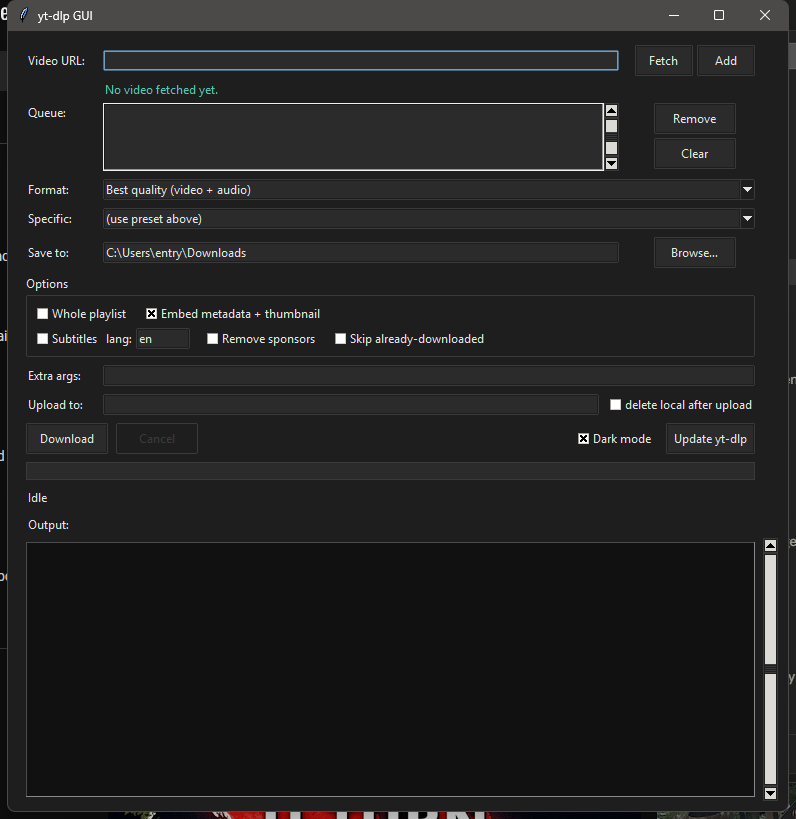
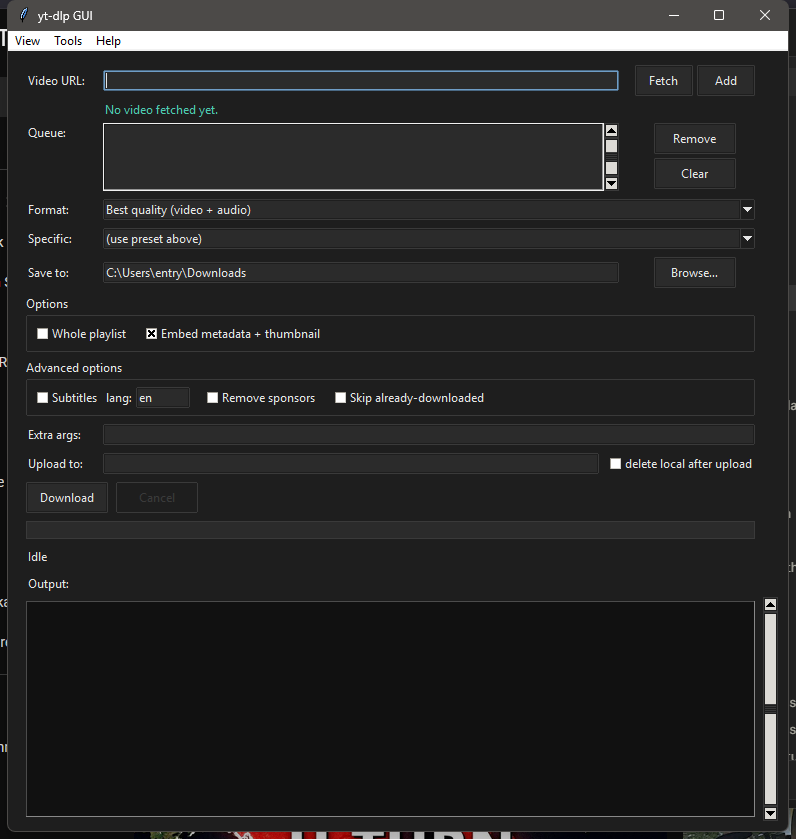
Add menu bar (View/Tools/Help) and Simple/Advanced view toggle
Moves Update yt-dlp and Dark mode into a native menu bar, adds in-app Help (how-to, extra-args examples, About) and Tools (open download/settings folders), and a Simple/Advanced toggle that hides the power-user rows. Defaults to Simple. View choice is remembered. Screenshots updated.

diff --git a/ytdlp_gui.py b/ytdlp_gui.py
@@ -79,6 +79,48 @@ THEMES = {
     },
 }
 
+APP_VERSION = "1.0"
+GITHUB_URL = "https://github.com/swissmayfield/ytdlp-gui"
+
+HELP_HOWTO = """\
+1. Paste a video URL at the top.
+2. (Optional) Click Fetch to load the title and the formats available for that
+   video, then pick one under "Specific" (Advanced view).
+3. Click Add to queue it, or just click Download to grab the single URL.
+4. Choose a Format and a Save-to folder, then click Download.
+
+Use the View menu to switch between Simple and Advanced, or toggle Dark mode.
+If a site stops working, try Tools > Update yt-dlp.
+
+Note: this does not bypass DRM. Use it only for content you're allowed
+to download - your own uploads, Creative Commons / public-domain video,
+or sites whose terms permit it.
+"""
+
+HELP_EXTRA = """\
+Anything in the "Extra args" box (Advanced view) is passed straight to yt-dlp:
+
+  --limit-rate 2M                     cap the download speed
+  --download-sections "*10:00-10:30"  download just that clip
+  --cookies-from-browser chrome       use your logged-in browser session
+  -N 4                                download fragments in parallel (faster)
+
+To upload finished files to a remote, set one up once with `rclone config`,
+then put e.g. "gdrive:Movies" in the Upload to box (Advanced view).
+"""
+
+HELP_ABOUT = f"""\
+yt-dlp GUI   v{APP_VERSION}
+
+A small, dependency-free desktop front-end for yt-dlp, built with Python's
+standard-library tkinter.
+
+{GITHUB_URL}
+
+yt-dlp does not bypass DRM; use this only for content you're allowed
+to download.
+"""
+
 
 class YtDlpGui:
     def __init__(self, root):
@@ -119,6 +161,7 @@ class YtDlpGui:
         self.rclone_var       = tk.StringVar(value=cfg.get("rclone_remote", ""))
         self.rclone_move_var  = tk.BooleanVar(value=cfg.get("rclone_move", False))
         self.dark_var         = tk.BooleanVar(value=cfg.get("dark", False))
+        self.view_var         = tk.StringVar(value=cfg.get("view", "simple"))
         self.status_var       = tk.StringVar(value="Idle")
 
         if self.format_var.get() not in FORMAT_PRESETS:
@@ -126,6 +169,7 @@ class YtDlpGui:
 
         self._build_widgets()
         self._apply_theme()
+        self._apply_view()
         self.root.protocol("WM_DELETE_WINDOW", self._on_close)
         self.root.after(100, self._drain_queue)
 
@@ -133,9 +177,11 @@ class YtDlpGui:
     def _build_widgets(self):
         pad = {"padx": 8, "pady": 4}
         self.style = ttk.Style(self.root)
+        self._build_menu()
         frm = ttk.Frame(self.root, padding=10)
         frm.pack(fill="both", expand=True)
         frm.columnconfigure(1, weight=1)
+        self.advanced_widgets = []   # rows hidden in Simple view
         r = 0
 
         # URL row + Fetch / Add buttons
@@ -181,11 +227,13 @@ class YtDlpGui:
                      state="readonly").grid(row=r, column=1, columnspan=2, sticky="ew", **pad)
         r += 1
 
-        # Specific format (populated after Fetch)
-        ttk.Label(frm, text="Specific:").grid(row=r, column=0, sticky="w", **pad)
+        # Specific format (populated after Fetch) -- advanced only
+        spec_lbl = ttk.Label(frm, text="Specific:")
+        spec_lbl.grid(row=r, column=0, sticky="w", **pad)
         self.specific_combo = ttk.Combobox(frm, textvariable=self.specific_var,
                                             values=[USE_PRESET], state="readonly")
         self.specific_combo.grid(row=r, column=1, columnspan=2, sticky="ew", **pad)
+        self.advanced_widgets += [spec_lbl, self.specific_combo]
         r += 1
 
         # Folder row
@@ -194,50 +242,54 @@ class YtDlpGui:
         ttk.Button(frm, text="Browse…", command=self._choose_dir).grid(row=r, column=2, **pad)
         r += 1
 
-        # Options group
+        # Basic options -- always visible
         opts = ttk.LabelFrame(frm, text="Options", padding=6)
         opts.grid(row=r, column=0, columnspan=3, sticky="ew", **pad)
-        row1 = ttk.Frame(opts); row1.pack(fill="x")
-        ttk.Checkbutton(row1, text="Whole playlist", variable=self.playlist_var).pack(side="left", padx=(0, 14))
-        ttk.Checkbutton(row1, text="Embed metadata + thumbnail", variable=self.metadata_var).pack(side="left")
-        row2 = ttk.Frame(opts); row2.pack(fill="x", pady=(4, 0))
-        ttk.Checkbutton(row2, text="Subtitles", variable=self.subs_var).pack(side="left")
-        ttk.Label(row2, text="lang:").pack(side="left", padx=(4, 2))
-        ttk.Entry(row2, textvariable=self.sublang_var, width=8).pack(side="left", padx=(0, 14))
-        ttk.Checkbutton(row2, text="Remove sponsors", variable=self.sponsorblock_var).pack(side="left", padx=(0, 14))
-        ttk.Checkbutton(row2, text="Skip already-downloaded", variable=self.archive_var).pack(side="left")
+        ttk.Checkbutton(opts, text="Whole playlist", variable=self.playlist_var).pack(side="left", padx=(0, 14))
+        ttk.Checkbutton(opts, text="Embed metadata + thumbnail", variable=self.metadata_var).pack(side="left")
+        r += 1
+
+        # Advanced options -- hidden in Simple view
+        adv = ttk.LabelFrame(frm, text="Advanced options", padding=6)
+        adv.grid(row=r, column=0, columnspan=3, sticky="ew", **pad)
+        ttk.Checkbutton(adv, text="Subtitles", variable=self.subs_var).pack(side="left")
+        ttk.Label(adv, text="lang:").pack(side="left", padx=(4, 2))
+        ttk.Entry(adv, textvariable=self.sublang_var, width=8).pack(side="left", padx=(0, 14))
+        ttk.Checkbutton(adv, text="Remove sponsors", variable=self.sponsorblock_var).pack(side="left", padx=(0, 14))
+        ttk.Checkbutton(adv, text="Skip already-downloaded", variable=self.archive_var).pack(side="left")
+        self.advanced_widgets.append(adv)
         r += 1
 
         # Extra yt-dlp arguments (advanced, optional). Anything typed here is
         # passed straight through to yt-dlp, so the GUI can reach any flag it
         # doesn't have a checkbox for (proxy, rate limit, clip sections, etc.).
-        ttk.Label(frm, text="Extra args:").grid(row=r, column=0, sticky="w", **pad)
+        extra_lbl = ttk.Label(frm, text="Extra args:")
+        extra_lbl.grid(row=r, column=0, sticky="w", **pad)
         extra_entry = ttk.Entry(frm, textvariable=self.extra_var)
         extra_entry.grid(row=r, column=1, columnspan=2, sticky="ew", **pad)
+        self.advanced_widgets += [extra_lbl, extra_entry]
         r += 1
 
         # Optional: upload each finished file to a remote with rclone. The remote
         # must already be set up via `rclone config` (e.g. "gdrive:Movies").
-        ttk.Label(frm, text="Upload to:").grid(row=r, column=0, sticky="w", **pad)
+        up_lbl = ttk.Label(frm, text="Upload to:")
+        up_lbl.grid(row=r, column=0, sticky="w", **pad)
         up = ttk.Frame(frm)
         up.grid(row=r, column=1, columnspan=2, sticky="ew", **pad)
         up.columnconfigure(0, weight=1)
         ttk.Entry(up, textvariable=self.rclone_var).grid(row=0, column=0, sticky="ew")
         ttk.Checkbutton(up, text="delete local after upload",
                         variable=self.rclone_move_var).grid(row=0, column=1, padx=(8, 0))
+        self.advanced_widgets += [up_lbl, up]
         r += 1
 
-        # Action buttons
+        # Action buttons (Update yt-dlp and Dark mode now live in the menu bar)
         btns = ttk.Frame(frm)
         btns.grid(row=r, column=0, columnspan=3, sticky="ew", **pad)
         self.download_btn = ttk.Button(btns, text="Download", command=self._start_download)
         self.download_btn.pack(side="left")
         self.cancel_btn = ttk.Button(btns, text="Cancel", command=self._cancel, state="disabled")
         self.cancel_btn.pack(side="left", padx=8)
-        self.update_btn = ttk.Button(btns, text="Update yt-dlp", command=self._update_ytdlp)
-        self.update_btn.pack(side="right")
-        ttk.Checkbutton(btns, text="Dark mode", variable=self.dark_var,
-                        command=self._apply_theme).pack(side="right", padx=(0, 12))
         r += 1
 
         # Progress + status
@@ -300,6 +352,86 @@ class YtDlpGui:
                                   selectbackground=pal["accent"], selectforeground=pal["fg"])
         self.info_label.configure(foreground=pal["info"])
 
+    # -- Menu bar / views ---------------------------------------------------
+    def _build_menu(self):
+        """Native menu bar: View / Tools / Help."""
+        menubar = tk.Menu(self.root)
+
+        view_menu = tk.Menu(menubar, tearoff=0)
+        view_menu.add_radiobutton(label="Simple", variable=self.view_var,
+                                  value="simple", command=self._apply_view)
+        view_menu.add_radiobutton(label="Advanced", variable=self.view_var,
+                                  value="advanced", command=self._apply_view)
+        view_menu.add_separator()
+        view_menu.add_checkbutton(label="Dark mode", variable=self.dark_var,
+                                  command=self._apply_theme)
+        menubar.add_cascade(label="View", menu=view_menu)
+
+        tools_menu = tk.Menu(menubar, tearoff=0)
+        tools_menu.add_command(label="Update yt-dlp", command=self._update_ytdlp)
+        tools_menu.add_command(label="Open download folder", command=self._open_download_folder)
+        tools_menu.add_command(label="Open settings folder", command=self._open_config_folder)
+        menubar.add_cascade(label="Tools", menu=tools_menu)
+
+        help_menu = tk.Menu(menubar, tearoff=0)
+        help_menu.add_command(label="How to use", command=self._help_howto)
+        help_menu.add_command(label="Extra-args examples", command=self._help_extra)
+        help_menu.add_separator()
+        help_menu.add_command(label="About", command=self._help_about)
+        menubar.add_cascade(label="Help", menu=help_menu)
+
+        self.root.config(menu=menubar)
+
+    def _apply_view(self):
+        """Show or hide the advanced rows for the current Simple/Advanced choice."""
+        advanced = self.view_var.get() == "advanced"
+        for w in self.advanced_widgets:
+            w.grid() if advanced else w.grid_remove()
+
+    def _open_download_folder(self):
+        self._open_path(self.dir_var.get())
+
+    def _open_config_folder(self):
+        os.makedirs(CONFIG_DIR, exist_ok=True)
+        self._open_path(CONFIG_DIR)
+
+    @staticmethod
+    def _open_path(path):
+        try:
+            if os.name == "nt":
+                os.startfile(path)  # noqa: S606 - opening a local folder in Explorer
+            elif sys.platform == "darwin":
+                subprocess.Popen(["open", path])
+            else:
+                subprocess.Popen(["xdg-open", path])
+        except OSError:
+            pass
+
+    def _help_howto(self):
+        self._show_help_dialog("How to use", HELP_HOWTO)
+
+    def _help_extra(self):
+        self._show_help_dialog("Extra-args examples", HELP_EXTRA)
+
+    def _help_about(self):
+        self._show_help_dialog("About", HELP_ABOUT)
+
+    def _show_help_dialog(self, title, body):
+        """Small themed, read-only text popup used for the Help menu items."""
+        pal = THEMES["dark" if self.dark_var.get() else "light"]
+        win = tk.Toplevel(self.root)
+        win.title(title)
+        win.configure(bg=pal["bg"])
+        win.transient(self.root)
+        txt = tk.Text(win, wrap="word", width=66, height=16, relief="flat",
+                      bg=pal["surface"], fg=pal["fg"], insertbackground=pal["fg"],
+                      padx=10, pady=10, font=("Segoe UI", 9))
+        txt.pack(fill="both", expand=True, padx=10, pady=(10, 4))
+        txt.insert("1.0", body)
+        txt.configure(state="disabled")
+        ttk.Button(win, text="Close", command=win.destroy).pack(pady=(0, 10))
+        win.bind("<Escape>", lambda _e: win.destroy())
+
     # -- Queue management ---------------------------------------------------
     def _add_to_queue(self):
         url = self.url_var.get().strip()
@@ -336,6 +468,7 @@ class YtDlpGui:
             "rclone_remote": self.rclone_var.get(),
             "rclone_move": self.rclone_move_var.get(),
             "dark": self.dark_var.get(),
+            "view": self.view_var.get(),
         }
         try:
             os.makedirs(CONFIG_DIR, exist_ok=True)
@@ -617,7 +750,7 @@ class YtDlpGui:
         self.busy = busy
         state = "disabled" if busy else "normal"
         for w in (self.download_btn, self.fetch_btn, self.add_btn,
-                  self.remove_btn, self.clear_btn, self.update_btn):
+                  self.remove_btn, self.clear_btn):
             w["state"] = state
         # Cancel only makes sense while a download queue is running.
         self.cancel_btn["state"] = "normal" if (busy and downloading) else "disabled"

diff --git a/README.md b/README.md
@@ -5,10 +5,11 @@ URL (or queue up several), pick a quality and a folder, and it runs yt-dlp for y
 while showing live progress. It's a single Python file with no third-party
 dependencies — just the standard library's `tkinter`.
 
-![yt-dlp GUI — light theme](docs/screenshot.png)
-![yt-dlp GUI — dark theme](docs/screenshot-dark.png)
+![yt-dlp GUI — Simple view (light)](docs/screenshot.png)
+![yt-dlp GUI — Advanced view (dark)](docs/screenshot-dark.png)
 
-*Light and dark themes — toggle with the **Dark mode** checkbox; your choice is remembered.*
+*Simple view (light) and Advanced view (dark). Switch views, toggle the theme, and
+open Help from the menu bar — your choices are remembered.*
 
 ## Features
 
@@ -21,6 +22,8 @@ dependencies — just the standard library's `tkinter`.
 - "Extra args" box to pass any yt-dlp flag the UI doesn't expose
 - Built-in "Update yt-dlp" button
 - Live progress bar with speed/ETA, and a summary of what succeeded or failed
+- Simple / Advanced views to hide or show the power-user options
+- Menu bar with in-app Help, plus Tools (update yt-dlp, open download/settings folders)
 - Light and dark themes, toggled in-app
 - Remembers your settings between runs
 
@@ -54,6 +57,9 @@ On Windows you can also just double-click `run.bat`.
    for that video, then choose one from the **Specific** dropdown.
 3. Click **Add** to queue it, or just hit **Download** to grab the single URL.
 4. Pick a folder and any options you want, then **Download**.
+
+Use the **View** menu to switch between Simple and Advanced, toggle Dark mode, or
+find **Help** for a quick how-to and the extra-args examples.
 
 ### Extra arguments
 